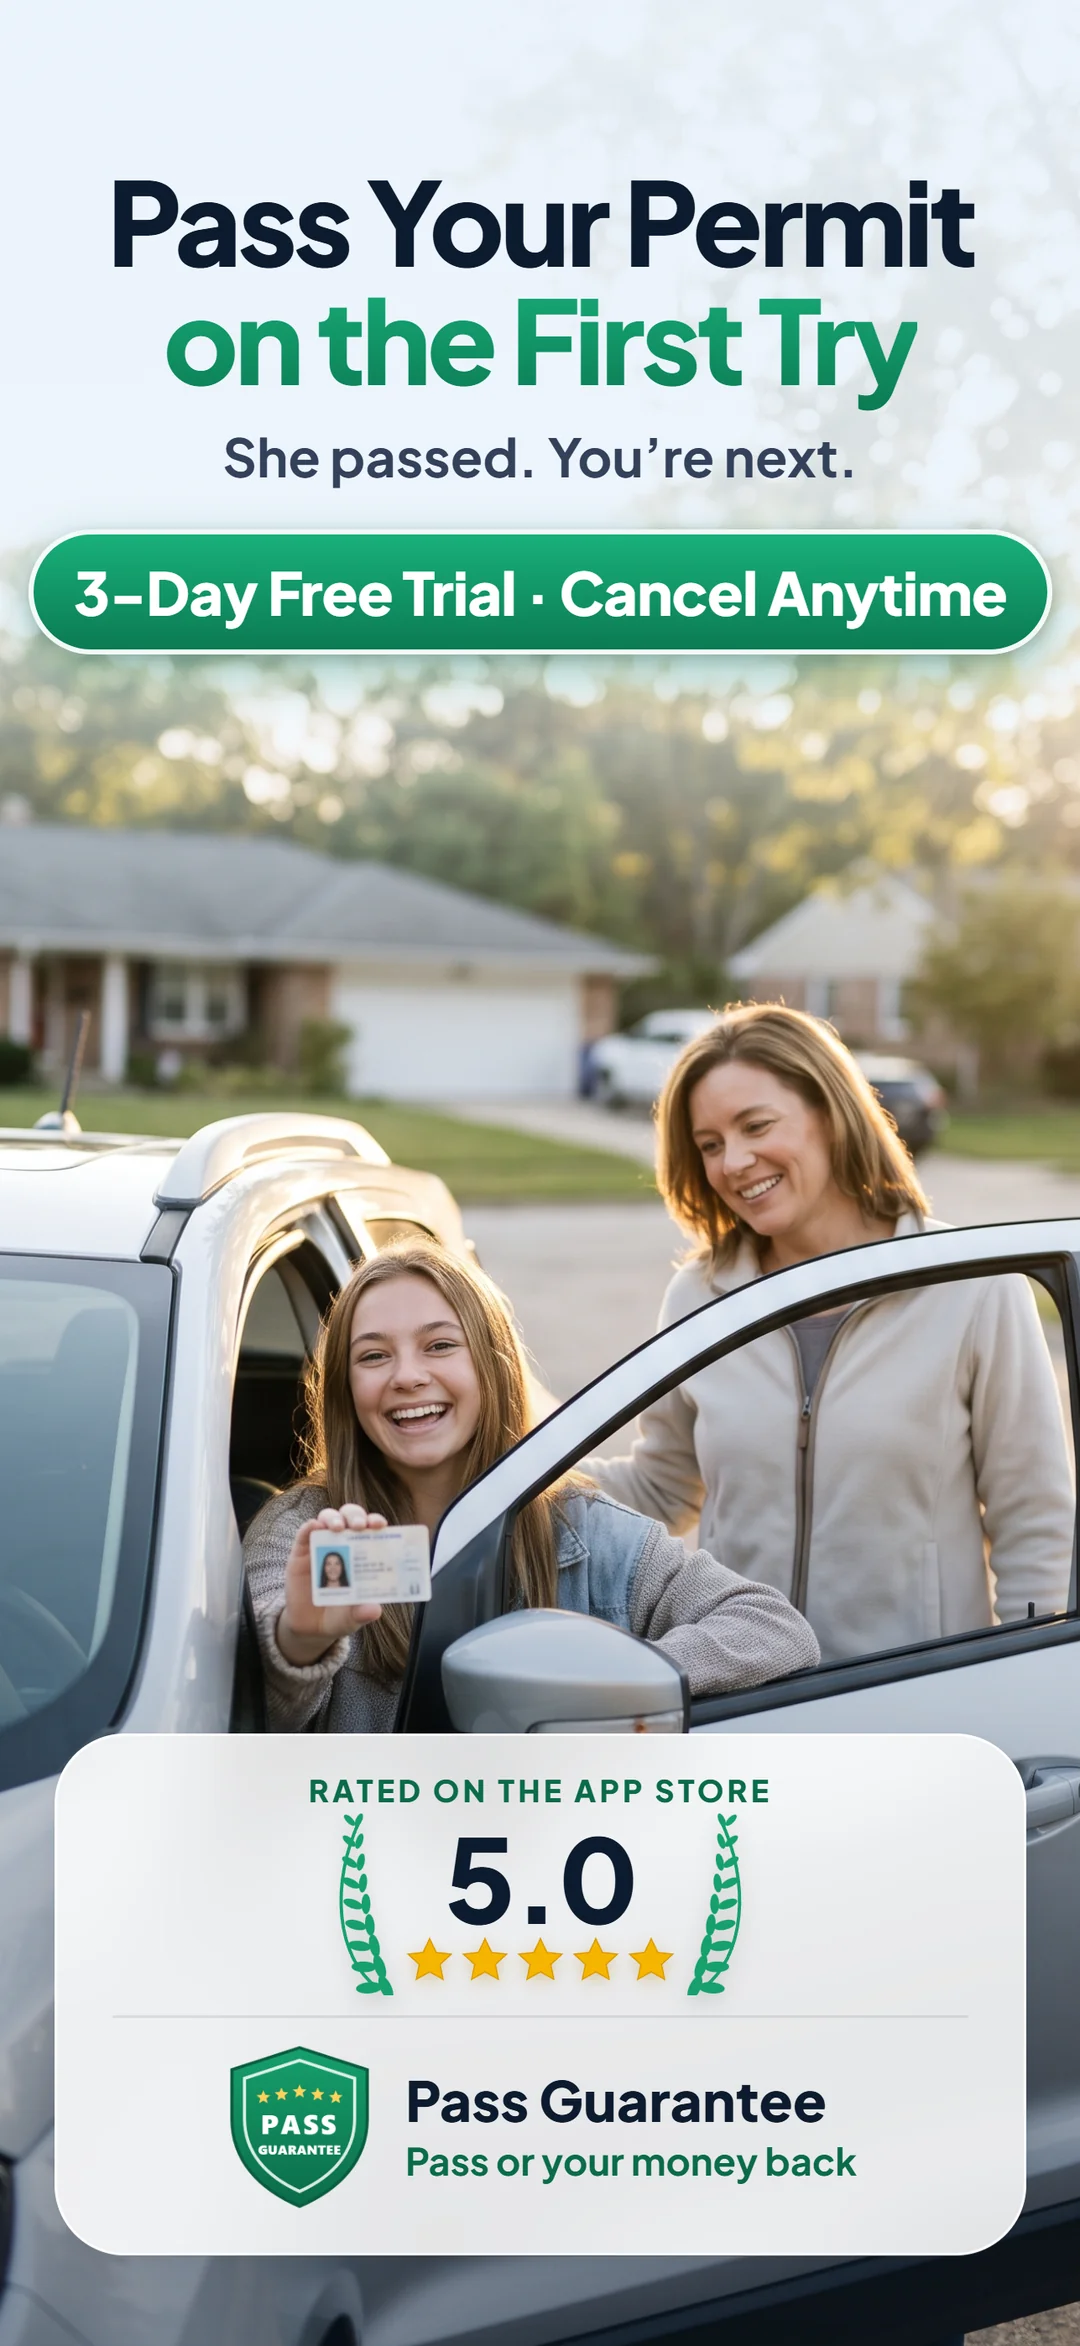
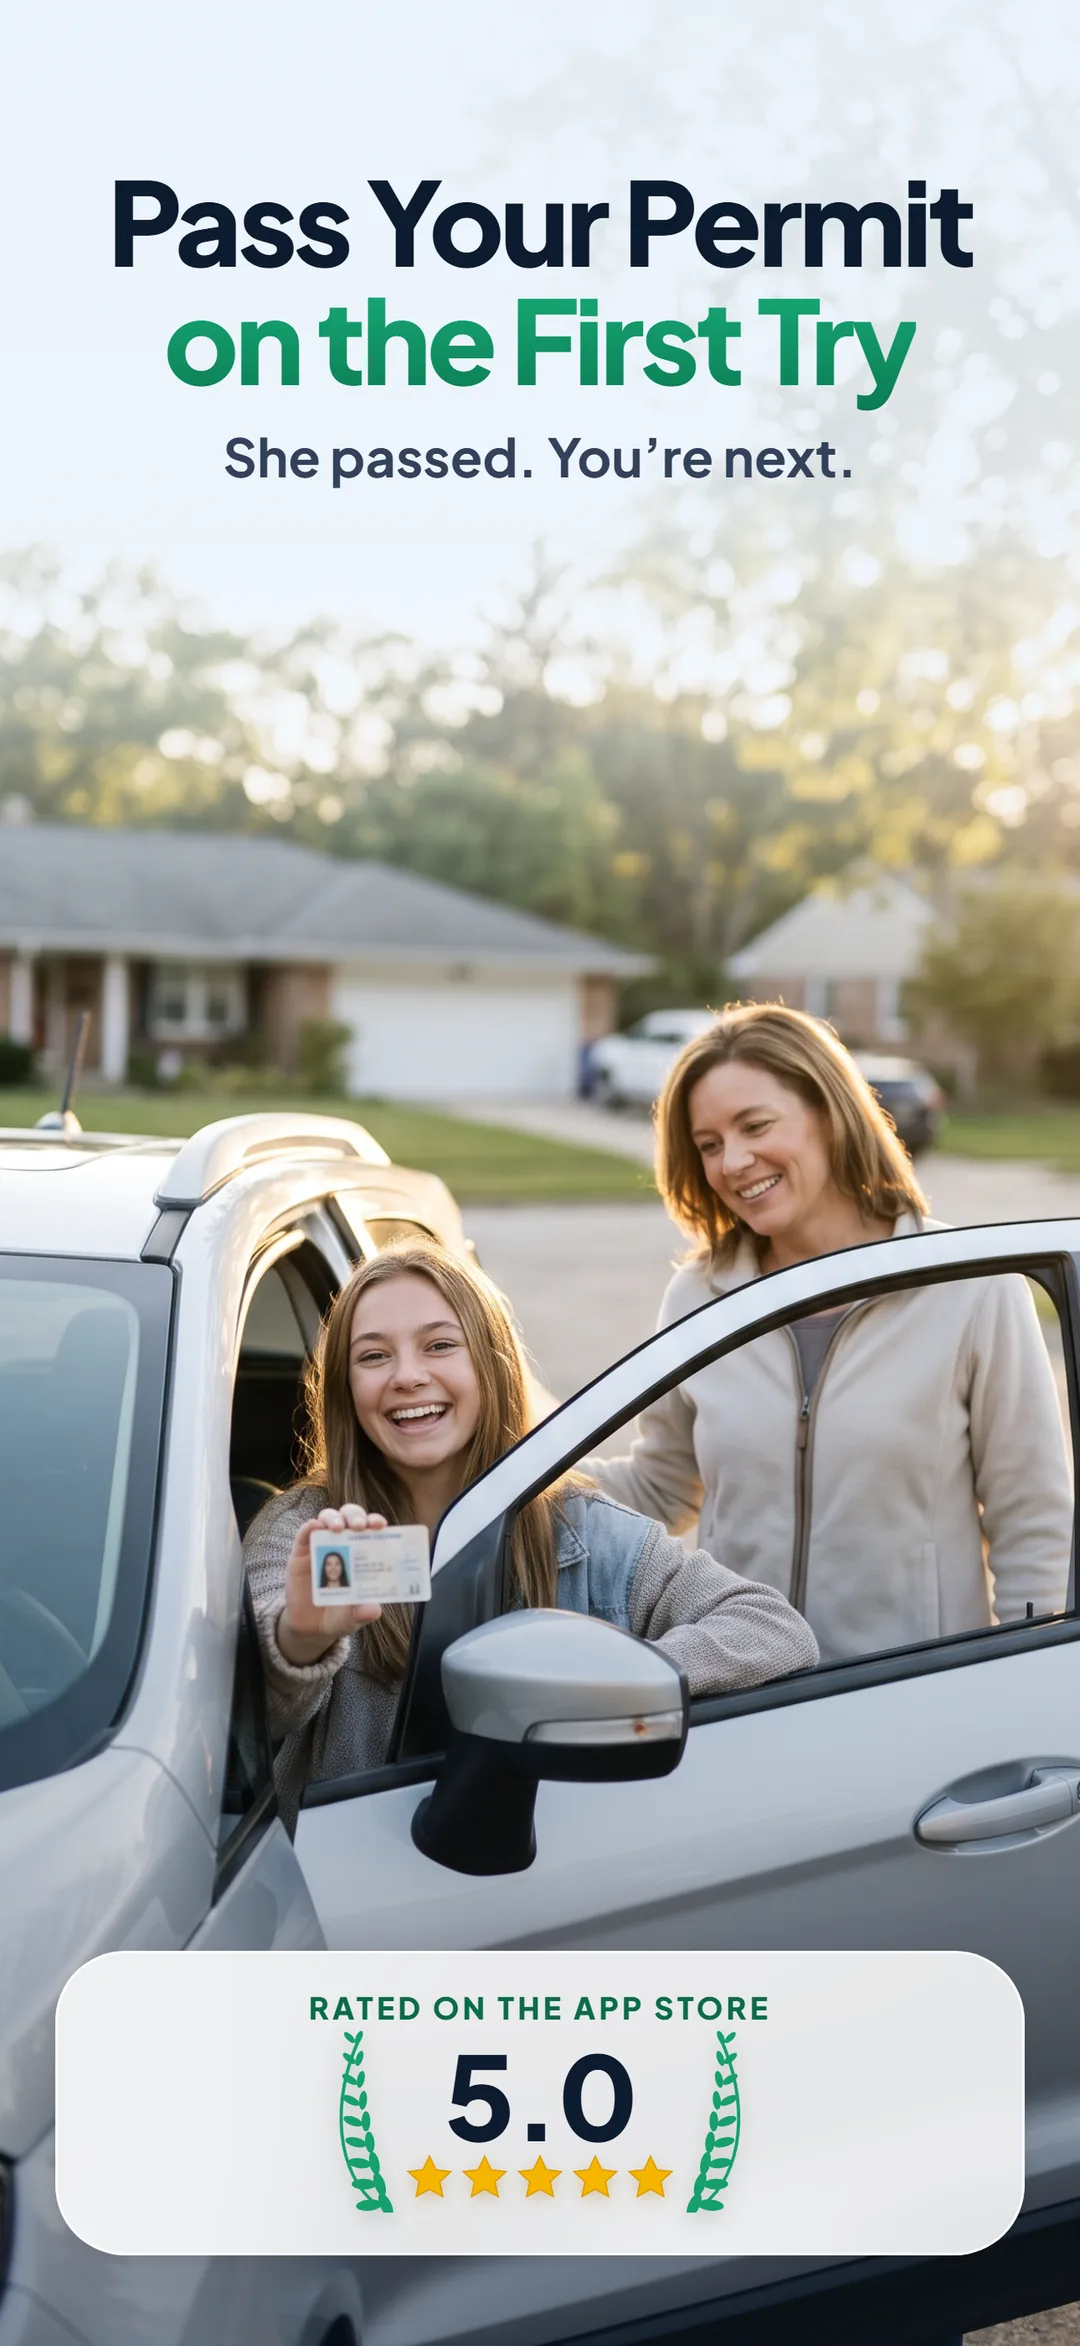
Site: no-guarantee store pictures (en-01, es-01, moto-en-01) and their alt text

diff --git a/motorcycle/index.html b/motorcycle/index.html
@@ -75,7 +75,7 @@
           <p class="trial-note"><svg class="i" viewBox="0 0 24 24" aria-hidden="true"><path d="M5 12.5l4.2 4.2L19 7"/></svg><span class="tn">3-Day Free Trial ·</span> <span class="tn">Cancel Anytime</span></p>
         </div>
       </div>
-      <div class="hero-art"><picture><source type="image/webp" srcset="/img/store/2-0/moto-en-01.webp"><img src="/img/store/2-0/moto-en-01.jpg" width="540" height="1173" alt="Pass your motorcycle test on the first try. He passed, you're next: a rider holding his license beside his motorcycle, a 3-day free trial · cancel anytime pill, a 5.0 App Store rating and the Pass Guarantee: pass your knowledge test or get your money back." decoding="async"></picture></div>
+      <div class="hero-art"><picture><source type="image/webp" srcset="/img/store/2-0/moto-en-01.webp"><img src="/img/store/2-0/moto-en-01.jpg" width="540" height="1173" alt="Pass your motorcycle test on the first try. He passed, you're next: a rider holding his license beside his motorcycle, a 3-day free trial · cancel anytime pill and a 5.0 App Store rating." decoding="async"></picture></div>
     </div>
   </section>
 
@@ -92,7 +92,7 @@
       <h2 class="sec-title" id="inside-title">The motorcycle app, in pictures.</h2>
     </div>
     <div class="wrap"><div class="shots-wrap"><ul class="shots" aria-label="App screenshots">
-      <li><picture><source type="image/webp" srcset="/img/store/2-0/moto-en-01.webp"><img src="/img/store/2-0/moto-en-01.jpg" width="540" height="1173" alt="Pass your motorcycle test on the first try. He passed, you're next: a rider holding his license beside his motorcycle, a 3-day free trial · cancel anytime pill, a 5.0 App Store rating and the Pass Guarantee: pass your knowledge test or get your money back." loading="lazy" decoding="async"></picture></li>
+      <li><picture><source type="image/webp" srcset="/img/store/2-0/moto-en-01.webp"><img src="/img/store/2-0/moto-en-01.jpg" width="540" height="1173" alt="Pass your motorcycle test on the first try. He passed, you're next: a rider holding his license beside his motorcycle, a 3-day free trial · cancel anytime pill and a 5.0 App Store rating." loading="lazy" decoding="async"></picture></li>
       <li><picture><source type="image/webp" srcset="/img/store/2-0/moto-en-02.webp"><img src="/img/store/2-0/moto-en-02.jpg" width="540" height="1173" alt="Two wheels or three: pick a two-wheel or a three-wheel motorcycle, all 50 states and DC, plus a three-wheel pack for trikes and sidecars." loading="lazy" decoding="async"></picture></li>
       <li><picture><source type="image/webp" srcset="/img/store/2-0/moto-en-03.webp"><img src="/img/store/2-0/moto-en-03.jpg" width="540" height="1173" alt="Practice like the real test: a motorcycle question in a practice exam. 650+ practice questions, full mock exams with a pass score." loading="lazy" decoding="async"></picture></li>
       <li><picture><source type="image/webp" srcset="/img/store/2-0/moto-en-04.webp"><img src="/img/store/2-0/moto-en-04.jpg" width="540" height="1173" alt="Pre-ride inspection: tires and wheels, controls and lights, every check explained, plus a practice quiz." loading="lazy" decoding="async"></picture></li>

diff --git a/es/padres/index.html b/es/padres/index.html
@@ -54,7 +54,7 @@
           <p class="web-buy">Cómpralo en el App Store, también con Solicitar compra de Apple. <a href="#pagar">Cómo comprar</a></p>
         </div>
       </div>
-      <div class="hero-art"><picture><source type="image/webp" srcset="/img/store/2-0/es-01.webp"><img src="/img/store/2-0/es-01.jpg" width="540" height="1173" alt="Aprueba tu permiso al primer intento. Ella aprobó, tú sigues: una nueva conductora con su licencia, Prueba gratis de 3 días · Cancela cuando quieras, calificación de 5.0 en la App Store y la Garantía de aprobación: apruebas tu examen de conocimientos o te devolvemos tu dinero." decoding="async"></picture></div>
+      <div class="hero-art"><picture><source type="image/webp" srcset="/img/store/2-0/es-01.webp"><img src="/img/store/2-0/es-01.jpg" width="540" height="1173" alt="Aprueba tu permiso al primer intento. Ella aprobó, tú sigues: una nueva conductora con su licencia, Prueba gratis de 3 días · Cancela cuando quieras y calificación de 5.0 en la App Store." decoding="async"></picture></div>
     </div>
   </section>
 

diff --git a/parents/index.html b/parents/index.html
@@ -54,7 +54,7 @@
           <p class="web-buy">Buy it through the App Store, including with Apple's Ask to Buy. <a href="#pay">How to buy</a></p>
         </div>
       </div>
-      <div class="hero-art"><picture><source type="image/webp" srcset="/img/store/2-0/en-01.webp"><img src="/img/store/2-0/en-01.jpg" width="540" height="1173" alt="Pass your permit on the first try. She passed, you're next: a new driver holding her license, a 3-Day Free Trial · Cancel Anytime pill, a 5.0 App Store rating and the Pass Guarantee: pass your knowledge test or get your money back." decoding="async"></picture></div>
+      <div class="hero-art"><picture><source type="image/webp" srcset="/img/store/2-0/en-01.webp"><img src="/img/store/2-0/en-01.jpg" width="540" height="1173" alt="Pass your permit on the first try. She passed, you're next: a new driver holding her license, a 3-Day Free Trial · Cancel Anytime pill and a 5.0 App Store rating." decoding="async"></picture></div>
     </div>
   </section>
 
